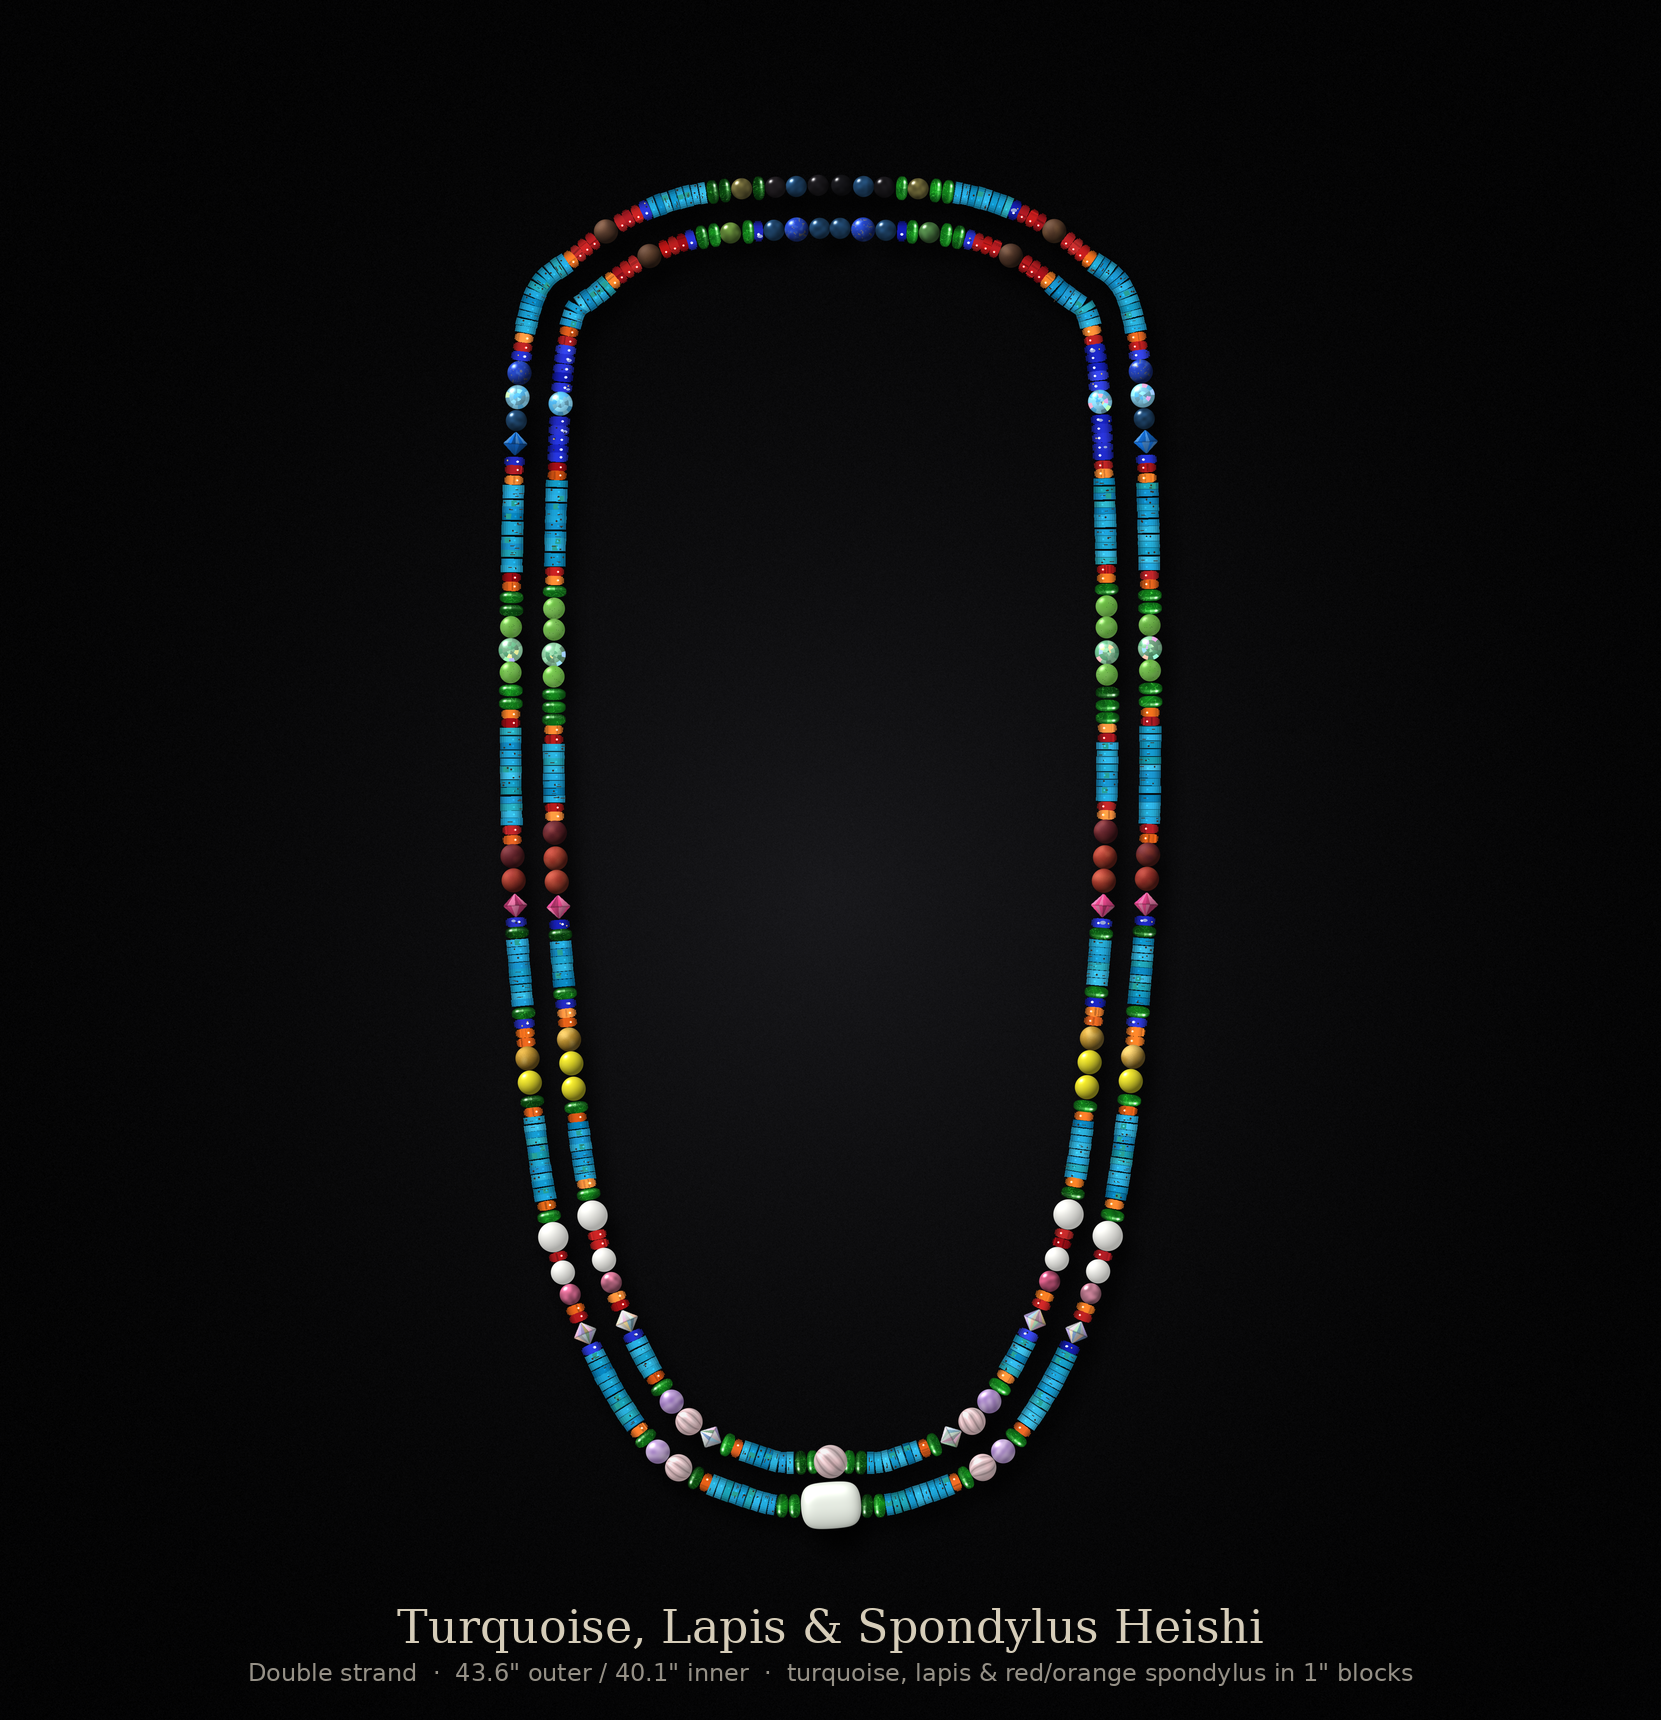
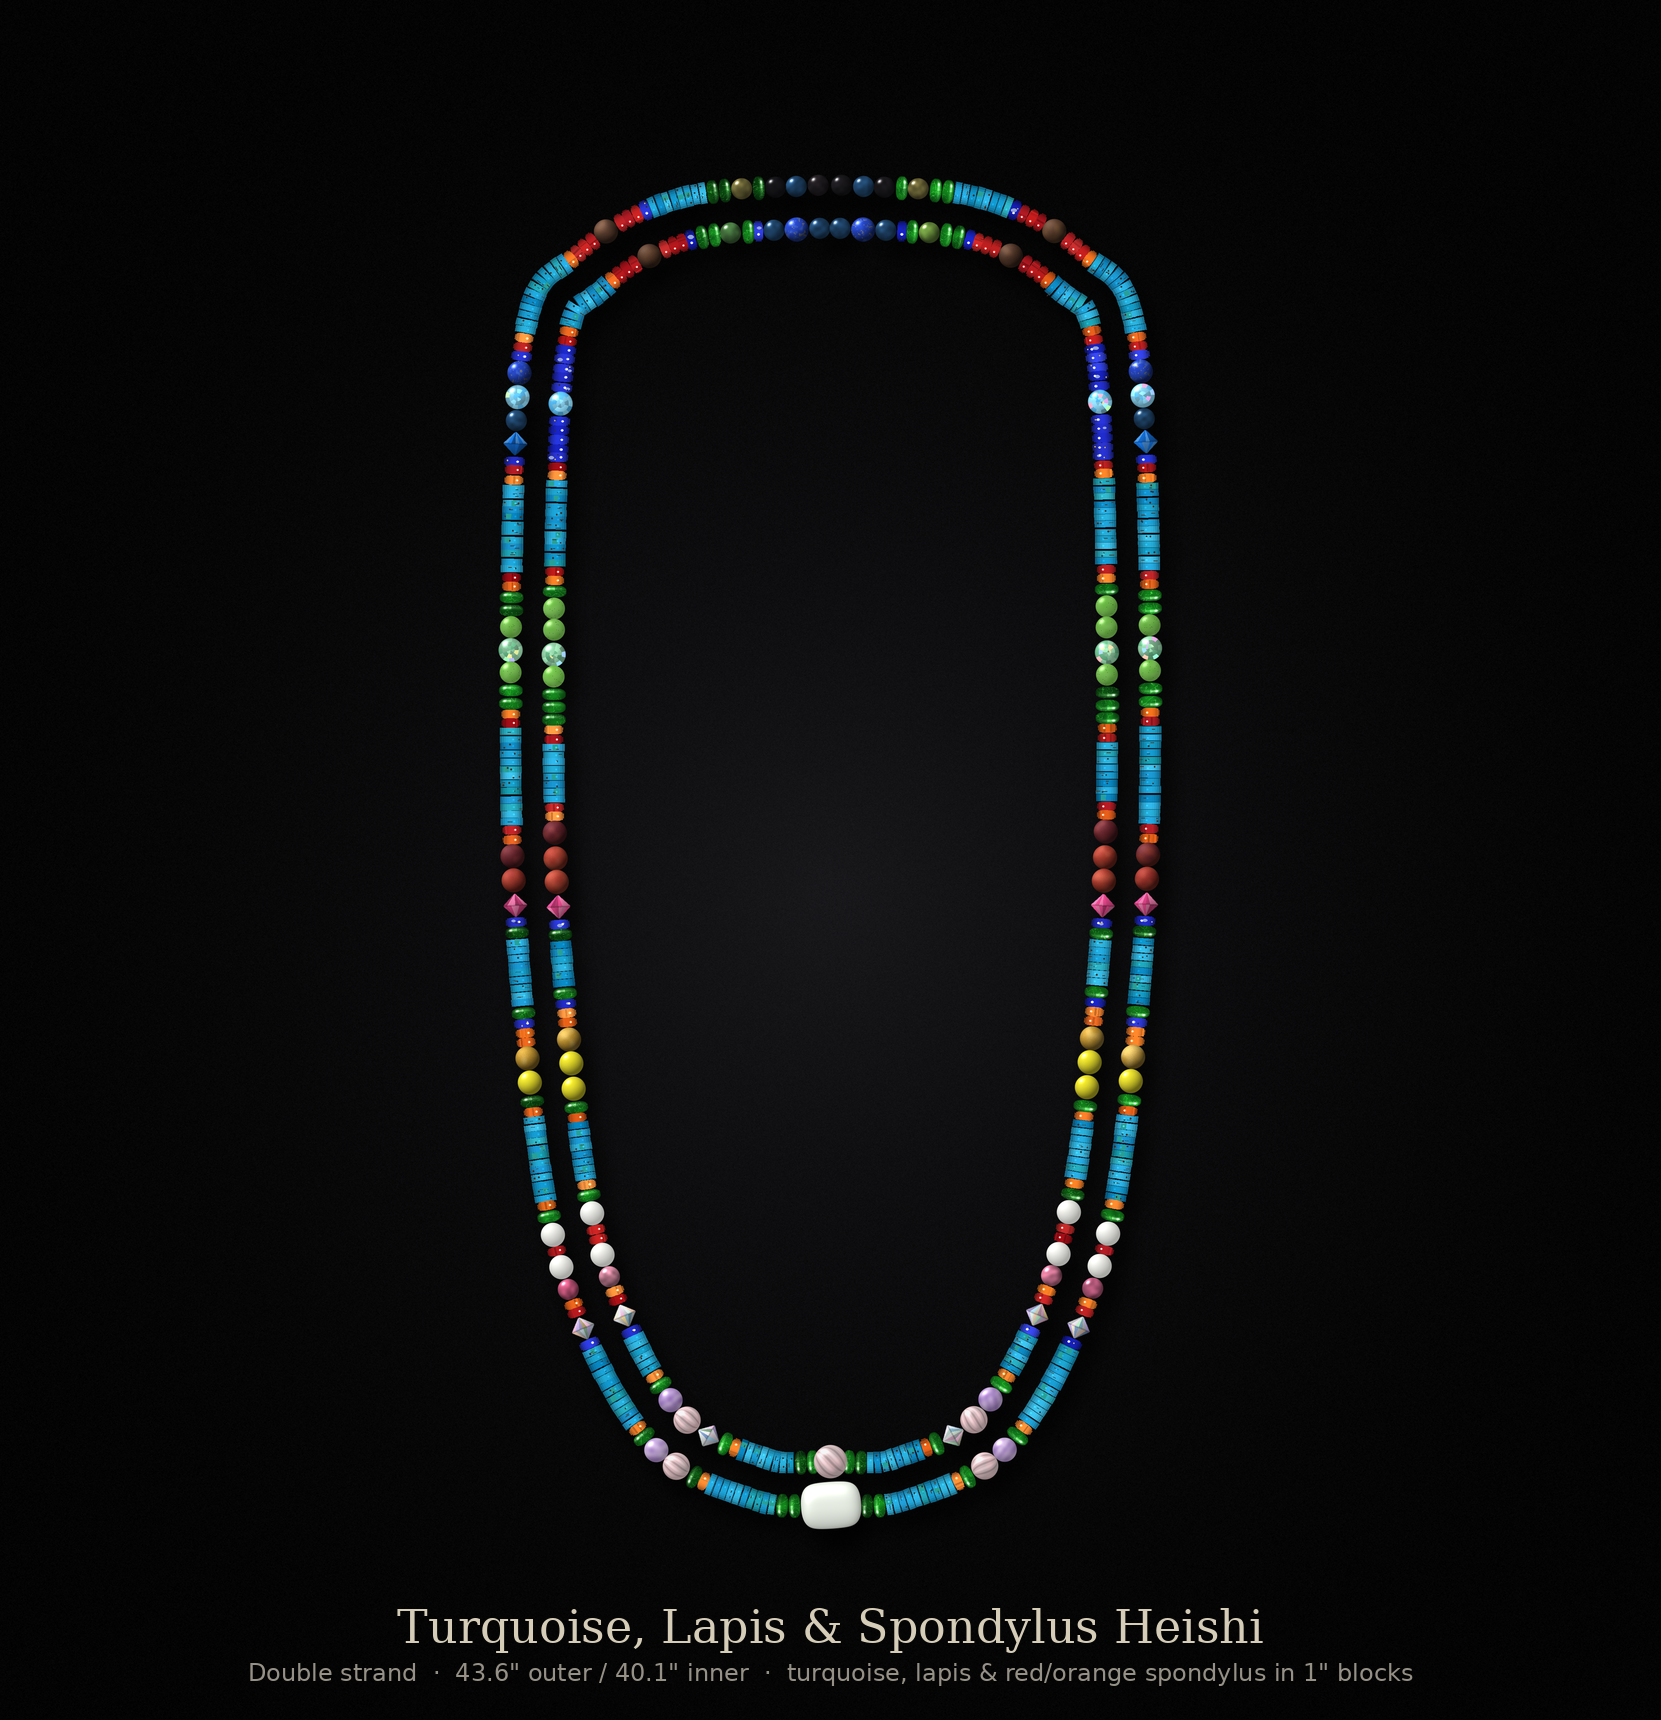
Version 5: all round white beads 8 mm
Claude-Session: https://claude.ai/code/session_014be1vF4Rdf8sv9Si75Gudv

diff --git a/necklace/render_necklace.py b/necklace/render_necklace.py
@@ -1408,7 +1408,7 @@ if V4:
                 _prev_end = _s7 - gaps[7]; _end = _s8 + _w[8] + gaps[9]
                 _wh = list(STN[8])
                 _iw = [i for i, k in enumerate(_wh) if k == "opal8"]
-                _wh[_iw[0]] = "opal10"
+                # (all round whites are 8 mm now; the top one stays 8 mm)
                 if len(_iw) == 1:                          # outer: add the 8 mm white after the red under the 10 mm
                     assert _wh[_iw[0] + 1] == "red"; _wh.insert(_iw[0] + 2, "opal8")
                 STN[7], STN[8] = _wh, list(STN[7])
